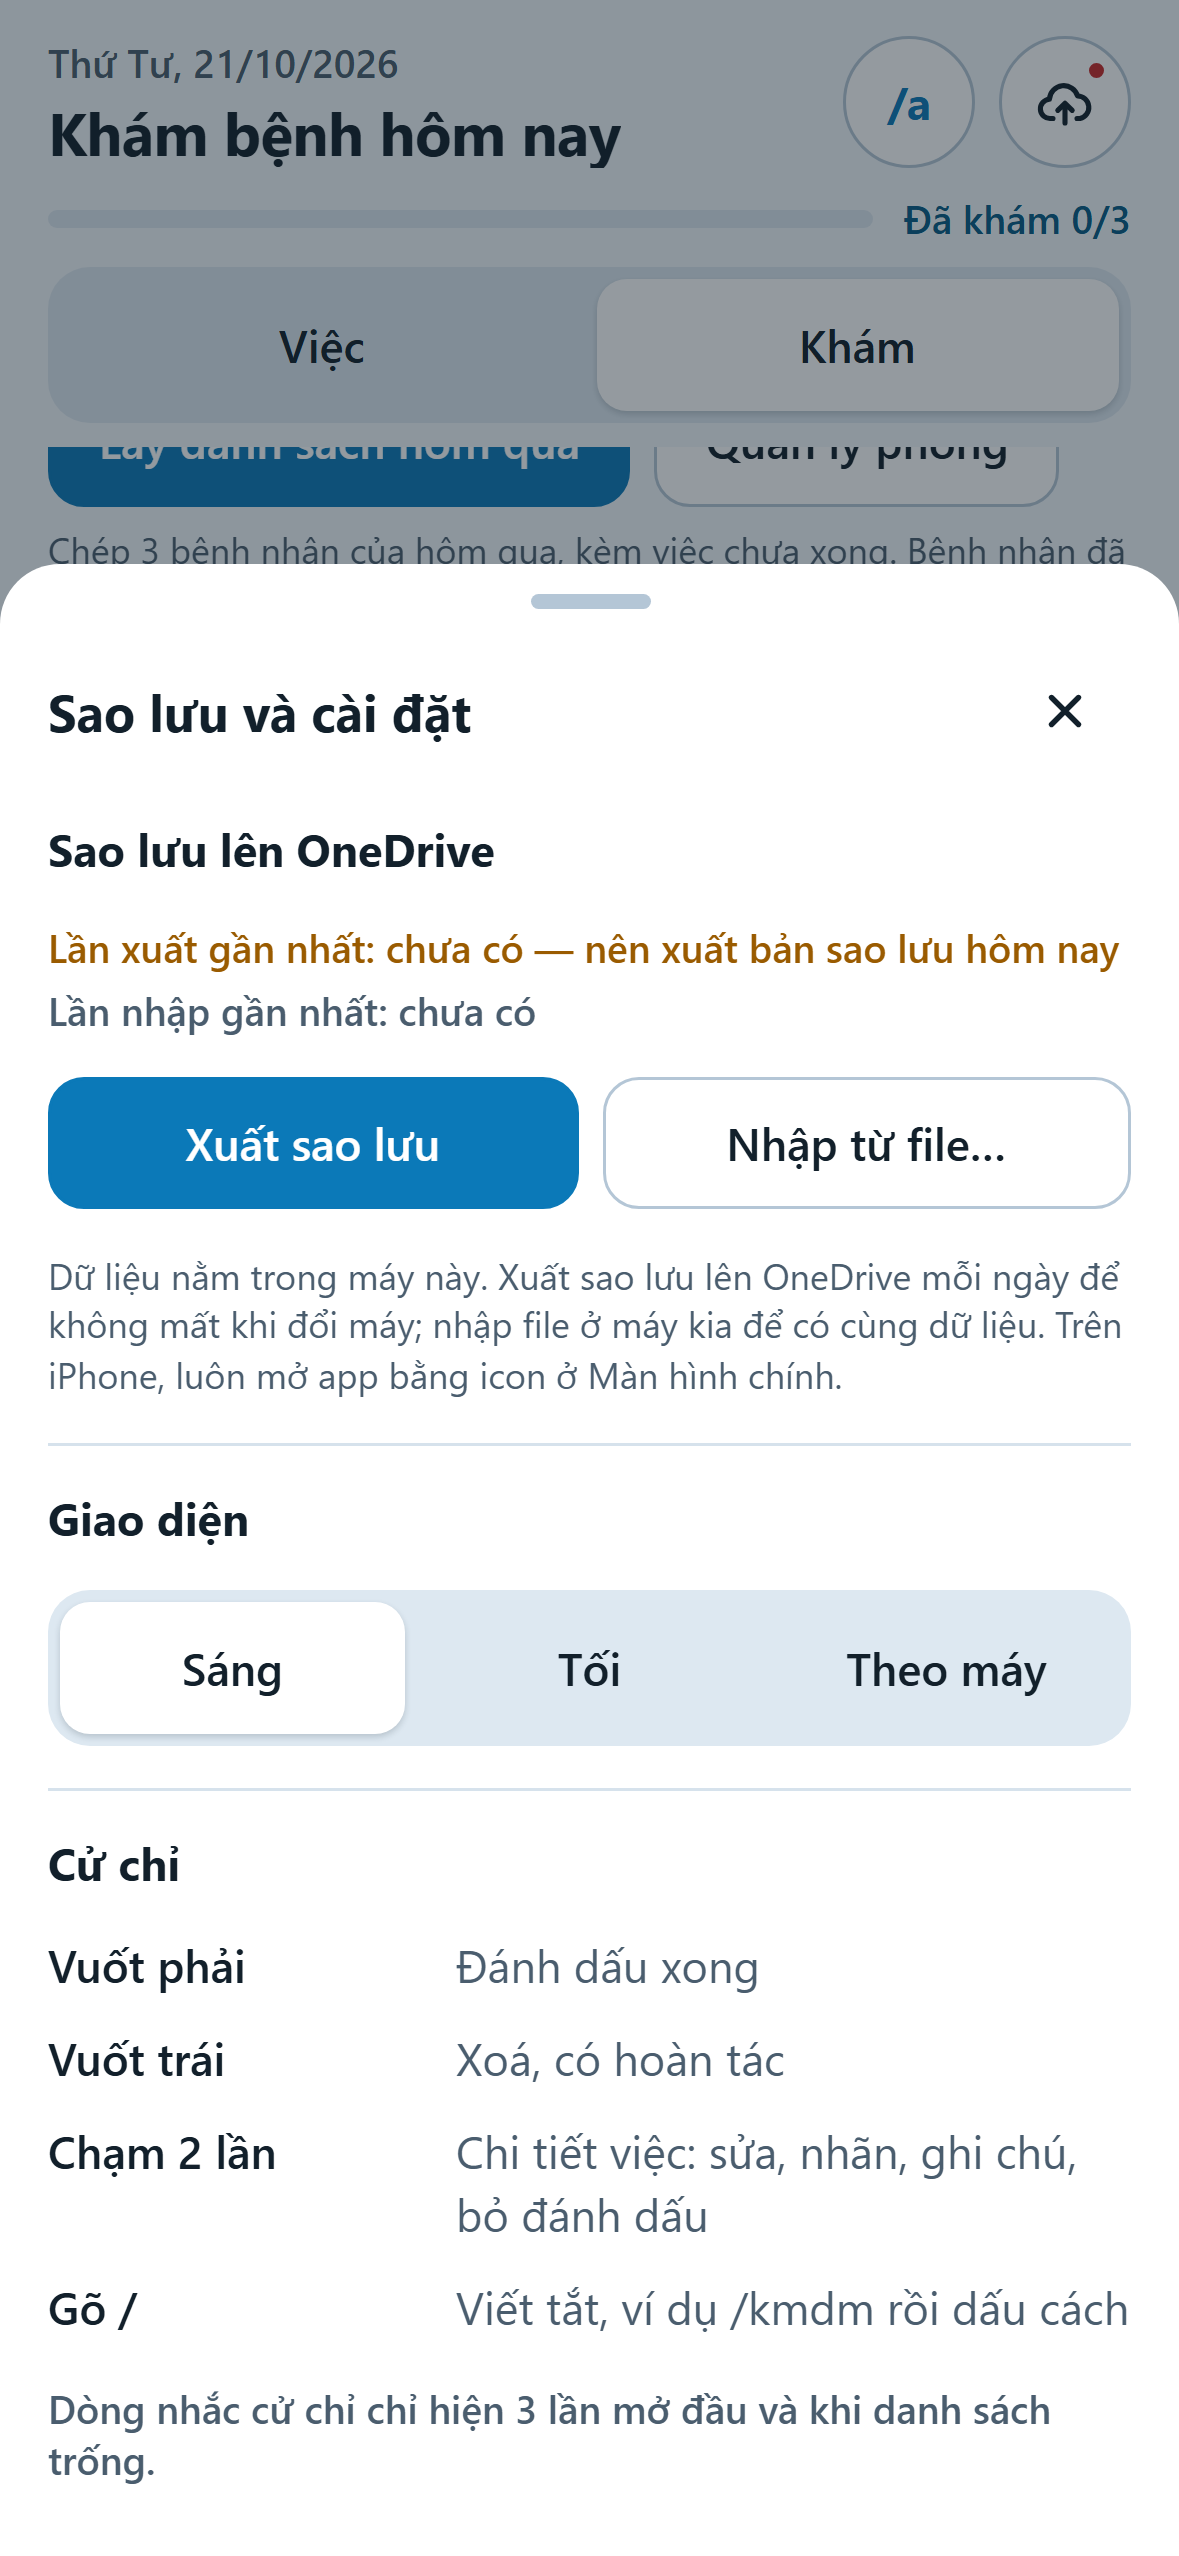
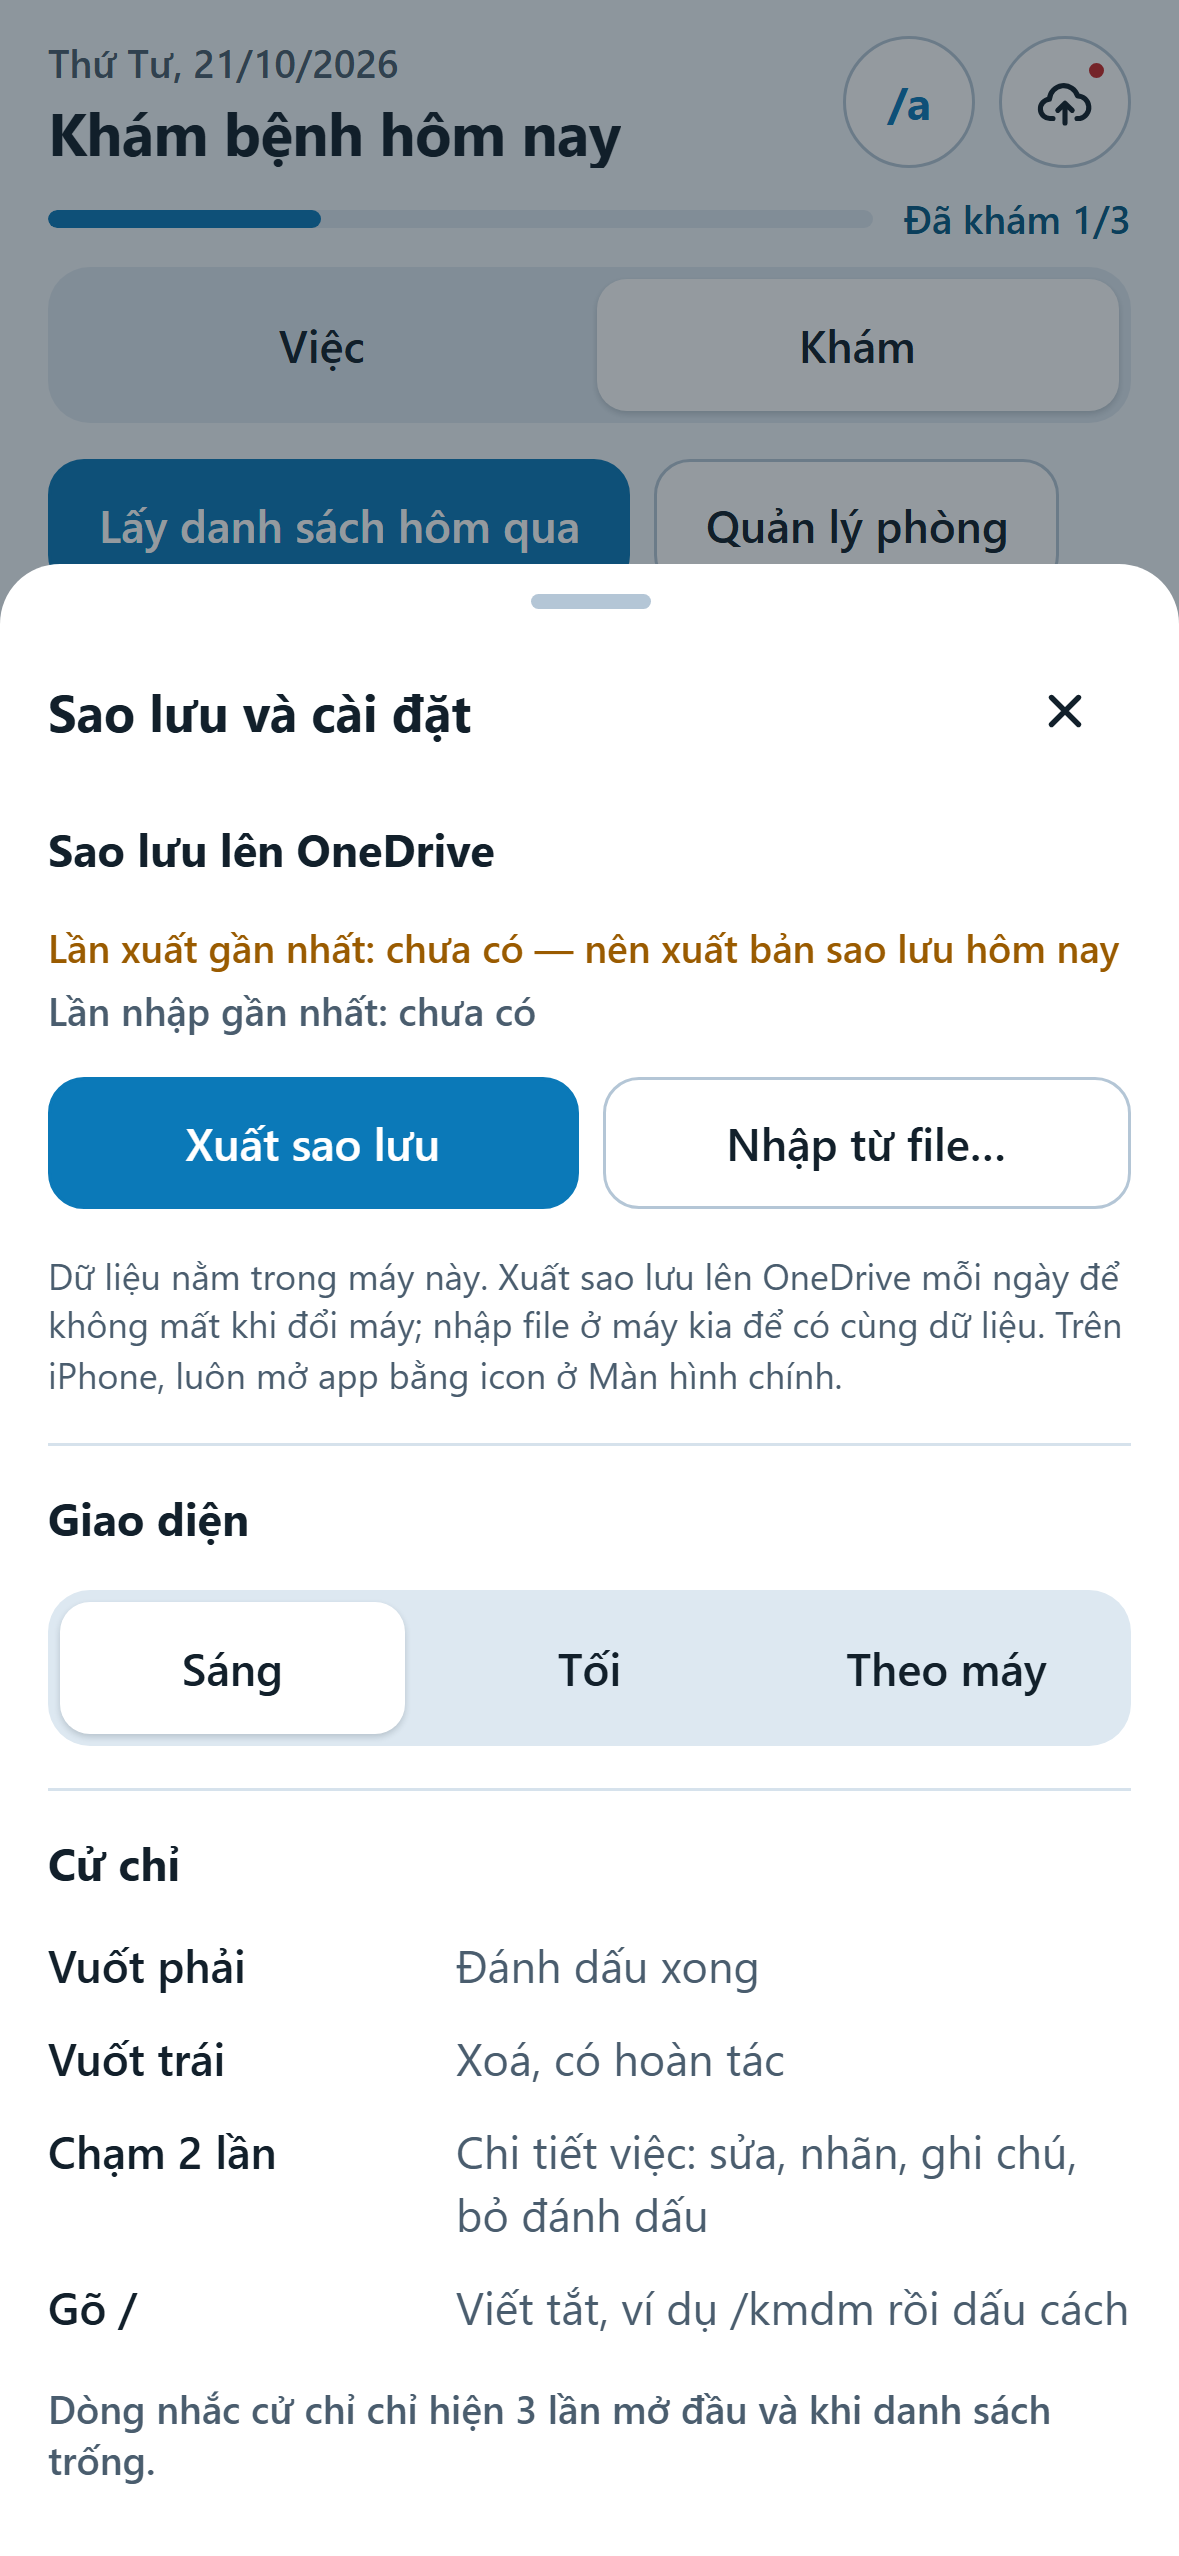
v9.4 đã duyệt: lưu ảnh chuẩn mới (không đổi app)

Changed region(s): [[0.0305, 0.1545, 0.855, 0.2473], [0.0305, 0.0618, 0.2748, 0.0927], [0.8855, 0.1854, 0.916, 0.2164]]

diff --git a/doi-agent/BAN_DO.md b/doi-agent/BAN_DO.md
@@ -85,6 +85,6 @@
 ## 6. Trạng thái hiện tại
 
 - Phiên bản: **v9.4** (đợt 4/6 của v9: tab Khám — nút "+" trên dòng phòng, đã khám bằng vuốt phải, chi tiết bé mới), ngày 06/11/2026.
-- Lần sửa gần nhất: 06/11/2026 — v9.4: dòng phòng có nút "+" tròn thay ô gạch đứt (phòng thu gọn tự mở); dòng bé bỏ ô tick và mũi tên, vuốt phải 1/3 là đã khám, tích xanh cuối dòng, chữ nhạt không gạch ngang, chạm 1 lần mở chi tiết, không vuốt trái; chi tiết bé theo bảng 16b (mã giường ở tiêu đề, ba ô Ngày sinh / Tuổi thai / Cân nặng, nút "Tính tuần tuổi" + ô kết quả Ngày tuổi / Hiệu chỉnh, vẫn chỉ tính khi bấm, "Hoàn tất khám" / "Đã khám lúc hh:mm", "Xoá khỏi hôm nay" vẫn hỏi); bấm "+" hoặc Enter ở ô thêm việc và ô thêm việc của bé cũng thay chữ tắt ở cuối (bác sĩ đồng ý 06/11/2026); nút "Tổng hợp y lệnh" và "Soạn lại". Ảnh chuẩn 9.4 chưa lưu, chờ bác sĩ duyệt. Trước đó 06/11/2026 — v9.3: ô thêm việc iPhone một dòng (ô tròn "Ghi việc cần làm…" + nút "+"), chạm vào ô thì bung hàng chip khu và 5 nút nhãn, rời ô mà ô trống thì thu lại (nhãn về trống, khu về theo chip lọc; thu lại hoãn tới sau khi nhấc ngón); gợi ý viết tắt là hàng chip 44px ngay trên ô gõ; thanh "Đã đổi /key thành …" + Hoàn tác giữ 6 giây (bác sĩ quyết 06/11/2026, thay ~4 giây); thư viện bỏ bút chì, chạm 2 lần vào dòng để sửa; cách tính bàn phím iPhone dùng chung cho Sheet, thanh thêm việc và thanh Hoàn tác (thanh Hoàn tác nằm ngay trên ô thêm việc, không che). Trước đó 06/11/2026 — v9.2: bỏ ô tick đầu dòng việc và việc của bé (dòng bé ở tab Khám được đổi ở 9.4); vuốt phải 1/3 = xong, vuốt trái 1/3 = xoá, nền xanh nhạt / đỏ phấn không chữ; việc xong không gạch ngang, chữ `--muted`, tích xanh cuối dòng; thanh Hoàn tác 6 giây (xoá dòng, "Xoá việc" trong chi tiết, "Xoá việc đã xong" trả lại tất cả, thư viện viết tắt); `doneAt` ("Đã xong lúc hh:mm"); việc của bé có chạm 2 lần; chi tiết việc cao ~76% với khu vực dạng chip; nút xoá thùng rác chỉ trên PC khi rê chuột; mục "Cử chỉ" trong cài đặt. Trước đó 05/11/2026 — v9.1: màu nhãn mới (bảng 16a) qua biến `--tNV`…; thang chữ iPhone 5 bậc; tab, chip, nút đầu trang cao 44px, chip khu trống chữ nhạt không ghi số 0; đầu trang iPhone còn /a, đám mây, lịch (bỏ nút sáng/tối); bảng "Sao lưu và cài đặt" có Sáng / Tối / Theo máy; dòng nhắc cử chỉ chỉ 3 lần mở đầu hoặc khi danh sách trống; bảng dưới có thanh kéo, tiêu đề 17px; khai báo sẵn màu trạng thái (chưa dùng). Trước đó 29/10/2026 — v8.5: "Xoá việc" trong chi tiết việc dùng DongBtn (bảng trượt xuống rồi mới xoá); khi bảng đang đóng, nền vẫn hứng cú chạm (`.sheet-wrap.out .sheet{pointer-events:none}`). Trước đó (v8.4): vuốt xoá bám theo ngón tay (biến CSS `--p` trên dòng, không render lại danh sách; nút lộ dần từ phải sang trái, nhãn mờ dần; thả quá nửa thì mở); nút xoá chỉ biểu tượng thùng rác viền đỏ, không nền (`--p1`, `--p1rgb`), cảm ứng xoá ở `pointerup`; dòng thu gọn 260ms rồi mới xoá; mọi Sheet có chuyển động mở/đóng (nền mờ dần, bảng trượt lên; đóng xong mới gỡ); tôn trọng prefers-reduced-motion. Trước đó (v8.3): mọi bảng dưới (Sheet) vẽ thẳng vào `<body>` bằng createPortal để không bị phần đầu/thanh thêm việc che trên Safari iPhone; bảng điện thoại mang class `sheet-ph` để giữ cỡ chữ gọn; ô tên việc trong chi tiết việc xuống tối đa 3 dòng. Trước đó (v8.2): vuốt trái thì thẻ đứng yên, viền đỏ, nút "Xoá" đỏ hiện trong dòng (Việc, việc của bé, thư viện viết tắt; PC rê chuột hiện nút); chạm 2 lần vào việc mở bảng "chi tiết việc" cao ~50% (sửa tên, khu, nhãn, ghi chú, xoá); bỏ chạm 3 lần, bảng nhãn riêng, bảng ghi chú cũ, vòng nét đứt. Trước đó (v8.1): viết tắt, bảng `abbrevs` ở `db.version(2)`.
-- Việc tiếp theo: **đợt 9.5** sau khi bác sĩ duyệt ảnh 9.4 (lịch mới, lịch trong tab Khám, xem ngày trước, tổng hợp nhiều ngày; việc lớn, đụng thuật toán). Ảnh chuẩn 9.4 chưa lưu. Phiếu 9.4: `doi-agent/phieu-viec/2026-11-06-v9-4-kham.json` (đã xong). Phiếu 9.3: `doi-agent/phieu-viec/2026-11-06-v9-3-o-them-viec-viet-tat.json` (đã xong). Phiếu 9.2: `doi-agent/phieu-viec/2026-11-05-v9-2-cu-chi-moi.json` (đã xong). Các đợt 9.4–9.6 theo kế hoạch sau đó. Thiết kế v9: đặc tả `doi-agent/thiet-ke-v9/THIET_KE_V9.md`, kế hoạch `doi-agent/phieu-viec/2026-11-05-v9-ke-hoach.json` (6 đợt 9.1–9.6), bản sao canvas `doi-agent/thiet-ke-v9/canvas/`. Đặc tả v9 thắng các quyết định cũ ghi ở mục 9 của nó.
+- Lần sửa gần nhất: 06/11/2026 — v9.4: dòng phòng có nút "+" tròn thay ô gạch đứt (phòng thu gọn tự mở); dòng bé bỏ ô tick và mũi tên, vuốt phải 1/3 là đã khám, tích xanh cuối dòng, chữ nhạt không gạch ngang, chạm 1 lần mở chi tiết, không vuốt trái; chi tiết bé theo bảng 16b (mã giường ở tiêu đề, ba ô Ngày sinh / Tuổi thai / Cân nặng, nút "Tính tuần tuổi" + ô kết quả Ngày tuổi / Hiệu chỉnh, vẫn chỉ tính khi bấm, "Hoàn tất khám" / "Đã khám lúc hh:mm", "Xoá khỏi hôm nay" vẫn hỏi); bấm "+" hoặc Enter ở ô thêm việc và ô thêm việc của bé cũng thay chữ tắt ở cuối (bác sĩ đồng ý 06/11/2026); nút "Tổng hợp y lệnh" và "Soạn lại". Bác sĩ đã duyệt, ảnh chuẩn 9.4 đã lưu. Trước đó 06/11/2026 — v9.3: ô thêm việc iPhone một dòng (ô tròn "Ghi việc cần làm…" + nút "+"), chạm vào ô thì bung hàng chip khu và 5 nút nhãn, rời ô mà ô trống thì thu lại (nhãn về trống, khu về theo chip lọc; thu lại hoãn tới sau khi nhấc ngón); gợi ý viết tắt là hàng chip 44px ngay trên ô gõ; thanh "Đã đổi /key thành …" + Hoàn tác giữ 6 giây (bác sĩ quyết 06/11/2026, thay ~4 giây); thư viện bỏ bút chì, chạm 2 lần vào dòng để sửa; cách tính bàn phím iPhone dùng chung cho Sheet, thanh thêm việc và thanh Hoàn tác (thanh Hoàn tác nằm ngay trên ô thêm việc, không che). Trước đó 06/11/2026 — v9.2: bỏ ô tick đầu dòng việc và việc của bé (dòng bé ở tab Khám được đổi ở 9.4); vuốt phải 1/3 = xong, vuốt trái 1/3 = xoá, nền xanh nhạt / đỏ phấn không chữ; việc xong không gạch ngang, chữ `--muted`, tích xanh cuối dòng; thanh Hoàn tác 6 giây (xoá dòng, "Xoá việc" trong chi tiết, "Xoá việc đã xong" trả lại tất cả, thư viện viết tắt); `doneAt` ("Đã xong lúc hh:mm"); việc của bé có chạm 2 lần; chi tiết việc cao ~76% với khu vực dạng chip; nút xoá thùng rác chỉ trên PC khi rê chuột; mục "Cử chỉ" trong cài đặt. Trước đó 05/11/2026 — v9.1: màu nhãn mới (bảng 16a) qua biến `--tNV`…; thang chữ iPhone 5 bậc; tab, chip, nút đầu trang cao 44px, chip khu trống chữ nhạt không ghi số 0; đầu trang iPhone còn /a, đám mây, lịch (bỏ nút sáng/tối); bảng "Sao lưu và cài đặt" có Sáng / Tối / Theo máy; dòng nhắc cử chỉ chỉ 3 lần mở đầu hoặc khi danh sách trống; bảng dưới có thanh kéo, tiêu đề 17px; khai báo sẵn màu trạng thái (chưa dùng). Trước đó 29/10/2026 — v8.5: "Xoá việc" trong chi tiết việc dùng DongBtn (bảng trượt xuống rồi mới xoá); khi bảng đang đóng, nền vẫn hứng cú chạm (`.sheet-wrap.out .sheet{pointer-events:none}`). Trước đó (v8.4): vuốt xoá bám theo ngón tay (biến CSS `--p` trên dòng, không render lại danh sách; nút lộ dần từ phải sang trái, nhãn mờ dần; thả quá nửa thì mở); nút xoá chỉ biểu tượng thùng rác viền đỏ, không nền (`--p1`, `--p1rgb`), cảm ứng xoá ở `pointerup`; dòng thu gọn 260ms rồi mới xoá; mọi Sheet có chuyển động mở/đóng (nền mờ dần, bảng trượt lên; đóng xong mới gỡ); tôn trọng prefers-reduced-motion. Trước đó (v8.3): mọi bảng dưới (Sheet) vẽ thẳng vào `<body>` bằng createPortal để không bị phần đầu/thanh thêm việc che trên Safari iPhone; bảng điện thoại mang class `sheet-ph` để giữ cỡ chữ gọn; ô tên việc trong chi tiết việc xuống tối đa 3 dòng. Trước đó (v8.2): vuốt trái thì thẻ đứng yên, viền đỏ, nút "Xoá" đỏ hiện trong dòng (Việc, việc của bé, thư viện viết tắt; PC rê chuột hiện nút); chạm 2 lần vào việc mở bảng "chi tiết việc" cao ~50% (sửa tên, khu, nhãn, ghi chú, xoá); bỏ chạm 3 lần, bảng nhãn riêng, bảng ghi chú cũ, vòng nét đứt. Trước đó (v8.1): viết tắt, bảng `abbrevs` ở `db.version(2)`.
+- Việc tiếp theo: **đợt 9.5** đang làm (lịch mới, lịch trong tab Khám, xem ngày trước, tổng hợp nhiều ngày; việc lớn, đụng thuật toán). Phiếu 9.4: `doi-agent/phieu-viec/2026-11-06-v9-4-kham.json` (đã xong). Phiếu 9.3: `doi-agent/phieu-viec/2026-11-06-v9-3-o-them-viec-viet-tat.json` (đã xong). Phiếu 9.2: `doi-agent/phieu-viec/2026-11-05-v9-2-cu-chi-moi.json` (đã xong). Các đợt 9.4–9.6 theo kế hoạch sau đó. Thiết kế v9: đặc tả `doi-agent/thiet-ke-v9/THIET_KE_V9.md`, kế hoạch `doi-agent/phieu-viec/2026-11-05-v9-ke-hoach.json` (6 đợt 9.1–9.6), bản sao canvas `doi-agent/thiet-ke-v9/canvas/`. Đặc tả v9 thắng các quyết định cũ ghi ở mục 9 của nó.
 - Việc còn chờ bác sĩ quyết: xem mục "Chờ duyệt" trong `doi-agent/NHAT_KY.md`.

diff --git a/doi-agent/NHAT_KY.md b/doi-agent/NHAT_KY.md
@@ -42,7 +42,7 @@
 - Kỹ thuật: `src/lib/viet-tat.js` thêm `moRongKhiGui`; `VietTat.jsx` trả thêm `chot`; `src/lib/vuot.js` thêm `opts.duocTrai` (mặc định true, không đổi hành vi cũ); `ui.jsx` (SwipeRow chỉ vuốt phải khi không có `onDelete`, `TrangThaiXong` nhận nhãn, xoá `CheckBtn`); `Exam.jsx`, `Tasks.jsx`, `HoanTac.jsx`, `App.jsx`, `App.css` sửa theo; `tests/viec.test.js`, `tests/viet-tat.test.js`, `tests/luat.test.js` thêm bài kiểm; `scripts/chup-giao-dien.mjs` thêm phép kiểm và ảnh. Không đổi `clinical.js`, `dates.js`, `db.js`, `actions.js`, `backup.js`, `merge.js`, `package.json`.
 - Kết quả kiểm: kiểm thử độc lập ĐẠT, không vòng sửa nào; `npm test` 122/122; script chụp ĐẠT 67 ảnh. Tính tay 6 ca tuổi khớp app (sinh cuối tháng, ngày lẻ tuổi thai, lùi năm). Sửa ngày sinh làm hỏng rồi sửa lại thì kết quả cũ xoá ngay. Dữ liệu bé cũ không đổi khi mở app.
 - Agent Giao diện sửa thêm một lỗi: trên PC bấm "Thêm việc" khi hàng gợi ý viết tắt đang hiện thì nút bị trượt.
-- Chưa thử trên iPhone thật. Ảnh chuẩn chưa lưu lại, chờ bác sĩ duyệt ảnh 9.4.
+- Chưa thử trên iPhone thật. Bác sĩ đã duyệt 06/11/2026; ảnh chuẩn 9.4 đã lưu.
 - Dọn "Chờ duyệt": bỏ #3 (đã làm); gộp #11 và #20 thành #26; thêm #26–#32 (thanh Hoàn tác đè nút "Xong" trong chi tiết bé, bấm "+" hai lần nhanh, "+" thêm việc liên tiếp rất nhanh, nhãn "Tuổi thai"/"Hiệu chỉnh", lệch dọc khi vuốt phải, bàn phím cho bé mới, ngày sinh lùi năm).
 - Việc tiếp theo: đợt 9.5 sau khi bác sĩ duyệt ảnh 9.4 (lịch mới, lịch trong tab Khám, xem ngày trước, tổng hợp nhiều ngày; việc lớn, đụng thuật toán).
 
